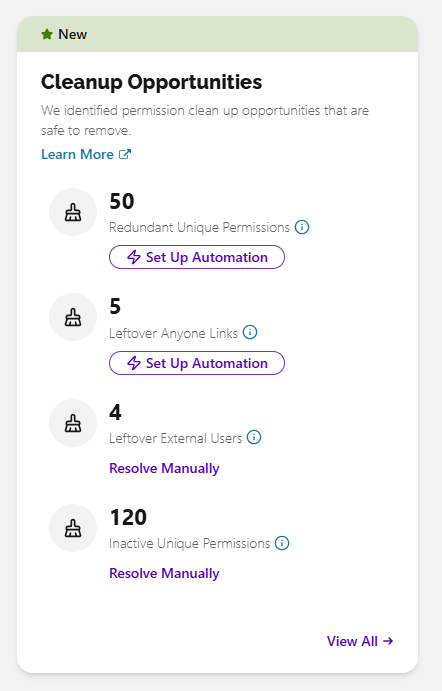
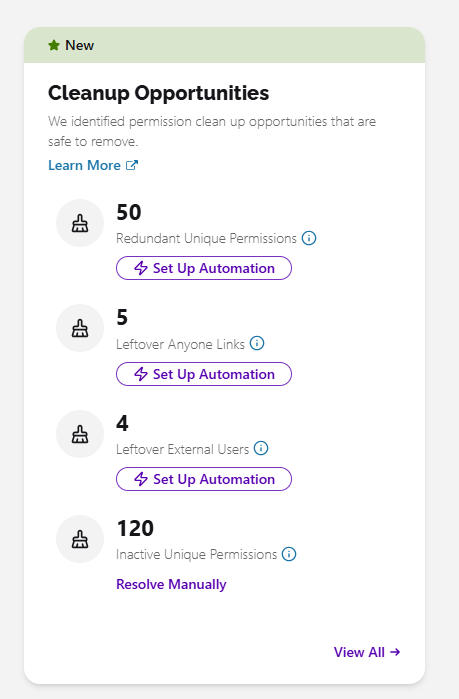
update

diff --git a/docs/microsoft365-inventory/explore-your-microsoft-365-dashboard.md b/docs/microsoft365-inventory/explore-your-microsoft-365-dashboard.md
@@ -358,7 +358,7 @@ The tile on the Dashboard shows the following:
 * The number of **Redundant Unique Permissions** and the **Set Up Automation** button, which opens the information dialog where you can turn on the **Automated cleanup** toggle or choose to Resolve Manually which open the **Unique Permissions** report
 * The number of **Inactive Unique Permissions** and the Resolve Manually button that opens the **Permissions Matrix** report
 * The number of **Leftover Anyone Links** and the **Set Up Automation** button, which opens the information dialog where you can turn on the **Automated cleanup** toggle or choose to Resolve Manually which opens the **Sharing Links** report
-* The number of **Leftover External Users** and the Resolve Manually button that opens the **Externally Shared Content** report
+* The number of **Leftover External Users** and the **Set Up Automation** button, which opens the information dialog where you can turn on the **Automated cleanup** toggle or choose to Resolve Manually which opens the **Externally Shared Content** report
 
 [For more details on the Cleanup Opportunities tile, take a look at this article.](cleanup-opportunities.md)
 
